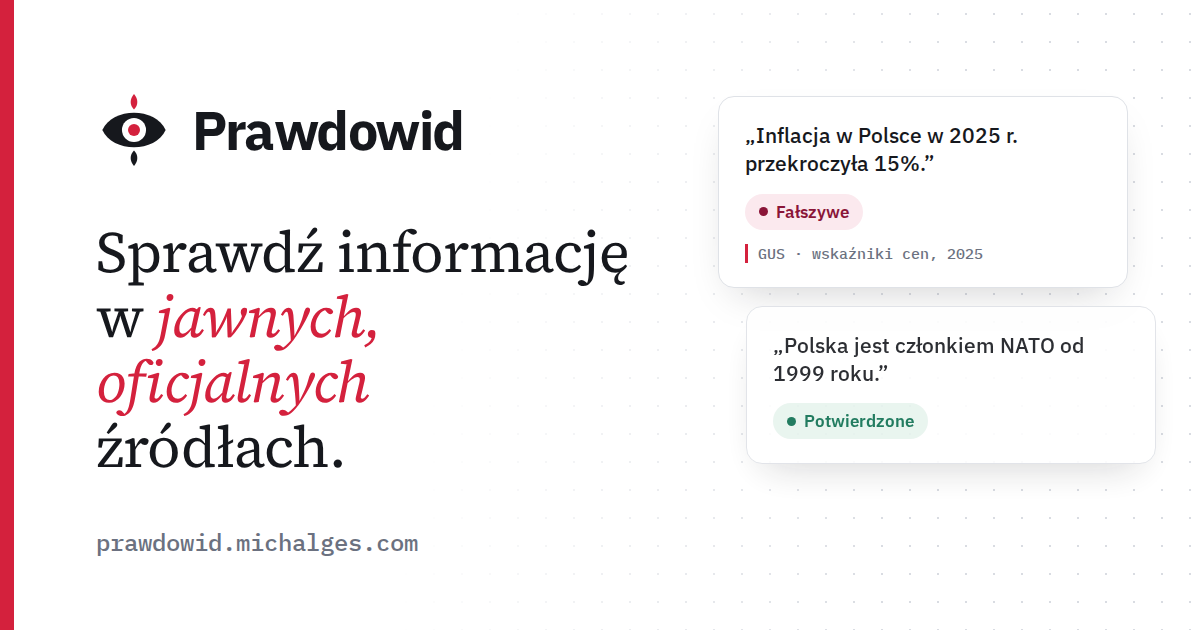
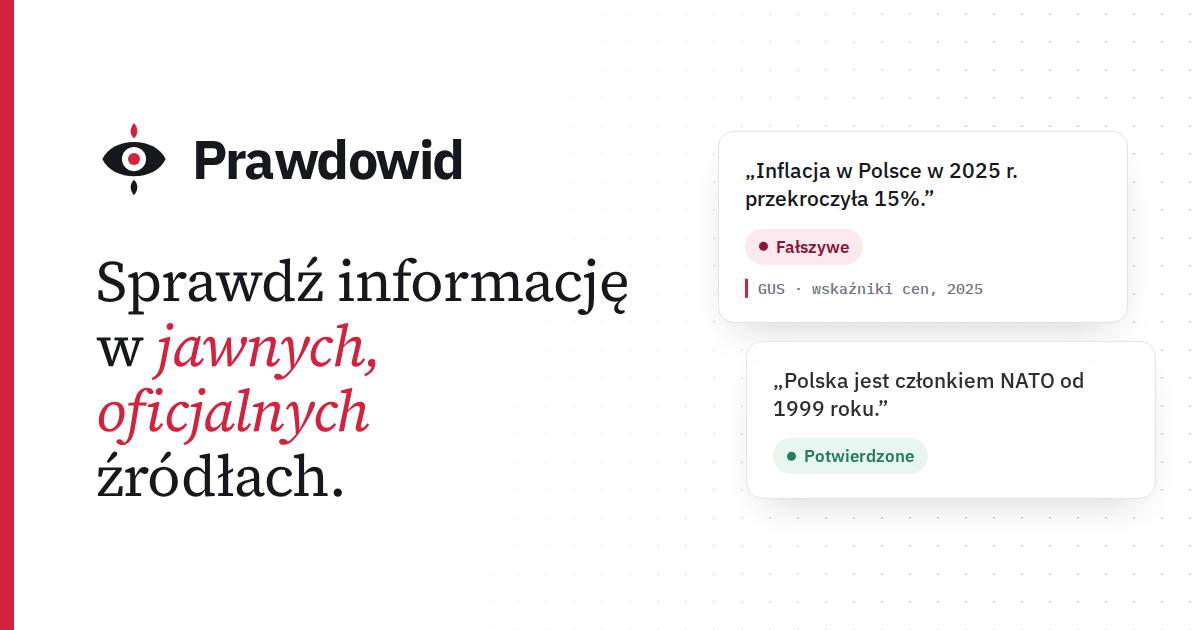
feat(web): styled language dropdown; drop domain from OG image

diff --git a/web/src/components/Layout.tsx b/web/src/components/Layout.tsx
@@ -1,4 +1,6 @@
 import { Link, Outlet } from '@tanstack/react-router'
+import { Check, ChevronDown, Languages } from 'lucide-react'
+import { useEffect, useRef, useState } from 'react'
 
 import { setLocale, useLocale, useMessages } from '../lib/i18n'
 import type { Locale } from '../lib/i18n'
@@ -11,6 +13,7 @@ const NAV_ITEMS = [
   { to: '/jak-to-dziala', key: 'method' },
   { to: '/discord', key: 'discord' },
 ] as const
+const LOCALE_LABELS: Record<Locale, string> = { pl: 'Polski', en: 'English' }
 const LOCALES: Locale[] = ['pl', 'en']
 const NAV_LINK_CLASS =
   'relative inline-flex min-h-14 items-center px-3 text-body-sm font-medium transition-colors after:absolute after:inset-x-3 after:bottom-0 after:h-0.5 after:rounded-full after:transition-colors'
@@ -28,24 +31,68 @@ function Wordmark() {
 function LocaleSwitcher() {
   const locale = useLocale()
   const { layout } = useMessages()
+  const [isOpen, setIsOpen] = useState(false)
+  const container = useRef<HTMLDivElement>(null)
+
+  useEffect(() => {
+    if (!isOpen) return
+    function closeOnOutsideClick(event: PointerEvent) {
+      if (event.target instanceof Node && !container.current?.contains(event.target)) setIsOpen(false)
+    }
+    function closeOnEscape(event: KeyboardEvent) {
+      if (event.key === 'Escape') setIsOpen(false)
+    }
+    document.addEventListener('pointerdown', closeOnOutsideClick)
+    document.addEventListener('keydown', closeOnEscape)
+    return () => {
+      document.removeEventListener('pointerdown', closeOnOutsideClick)
+      document.removeEventListener('keydown', closeOnEscape)
+    }
+  }, [isOpen])
+
+  function selectLocale(value: Locale) {
+    setLocale(value)
+    setIsOpen(false)
+  }
+
   return (
-    <fieldset className="flex rounded-md border border-border p-0.5">
-      <legend className="sr-only">{layout.language}</legend>
-      {LOCALES.map((option) => (
-        <button
-          key={option}
-          type="button"
-          lang={option}
-          aria-pressed={locale === option}
-          onClick={() => setLocale(option)}
-          className={`min-h-9 rounded-sm px-2.5 font-mono text-meta uppercase transition-colors ${
-            locale === option ? 'bg-ink text-ink-inverse' : 'text-ink-muted hover:text-ink'
-          }`}
-        >
-          {option}
-        </button>
-      ))}
-    </fieldset>
+    <div ref={container} className="relative">
+      <button
+        type="button"
+        aria-expanded={isOpen}
+        aria-label={`${layout.language}: ${LOCALE_LABELS[locale]}`}
+        onClick={() => setIsOpen((wasOpen) => !wasOpen)}
+        className="inline-flex min-h-9 items-center gap-1.5 rounded-md border border-border px-2.5 text-body-sm font-medium text-ink hover:border-border-control aria-expanded:border-border-control aria-expanded:bg-surface-subtle"
+      >
+        <Languages aria-hidden className="size-4 text-ink-muted" />
+        <span className="font-mono text-meta uppercase">{locale}</span>
+        <ChevronDown aria-hidden className={`size-3.5 text-ink-muted transition-transform ${isOpen ? 'rotate-180' : ''}`} />
+      </button>
+      {isOpen && (
+        <ul className="absolute right-0 z-20 mt-1.5 w-44 overflow-hidden rounded-lg border border-border bg-surface p-1 shadow-card">
+          {LOCALES.map((option) => {
+            const isSelected = option === locale
+            return (
+              <li key={option}>
+                <button
+                  type="button"
+                  lang={option}
+                  aria-pressed={isSelected}
+                  onClick={() => selectLocale(option)}
+                  className={`flex w-full items-center gap-3 rounded-md px-3 py-2 text-left text-body-sm ${
+                    isSelected ? 'bg-surface-subtle font-semibold text-ink' : 'text-ink-muted hover:bg-surface-subtle hover:text-ink'
+                  }`}
+                >
+                  <span className="w-6 font-mono text-meta uppercase text-ink-subtle">{option}</span>
+                  <span className="flex-1">{LOCALE_LABELS[option]}</span>
+                  {isSelected && <Check aria-hidden className="size-4 text-brand-600" />}
+                </button>
+              </li>
+            )
+          })}
+        </ul>
+      )}
+    </div>
   )
 }
 

diff --git a/docs/design/og/og.html b/docs/design/og/og.html
@@ -20,7 +20,7 @@
     mask-image: linear-gradient(100deg, transparent 38%, #000 75%);
   }
   .bar { position: absolute; left: 0; top: 0; bottom: 0; width: 14px; background: #d4213d; }
-  .left { position: absolute; left: 96px; top: 92px; width: 560px; }
+  .left { position: absolute; left: 96px; top: 50%; transform: translateY(-50%); width: 560px; }
   .brand { display: flex; align-items: center; gap: 20px; }
   .brand svg { width: 76px; height: 76px; }
   .brand span { font-size: 54px; font-weight: 700; letter-spacing: -1.5px; }
@@ -35,7 +35,7 @@
     font-family: "IBM Plex Mono", monospace; font-weight: 500;
     font-size: 24px; color: #6b7180;
   }
-  .stack { position: absolute; right: 72px; top: 96px; width: 410px; }
+  .stack { position: absolute; right: 72px; top: 50%; transform: translateY(-50%); width: 410px; }
   .card {
     background: #fff; border: 1.5px solid #dfe2e7; border-radius: 16px;
     padding: 24px 26px; box-shadow: 0 18px 40px -18px rgba(22,24,29,.22);
@@ -73,7 +73,6 @@
     </div>
     <h1>Sprawdź informację<br>w&nbsp;<em>jawnych, oficjalnych</em><br>źródłach.</h1>
   </div>
-  <div class="url">prawdowid.michalges.com</div>
 
   <div class="stack">
     <div class="card">
